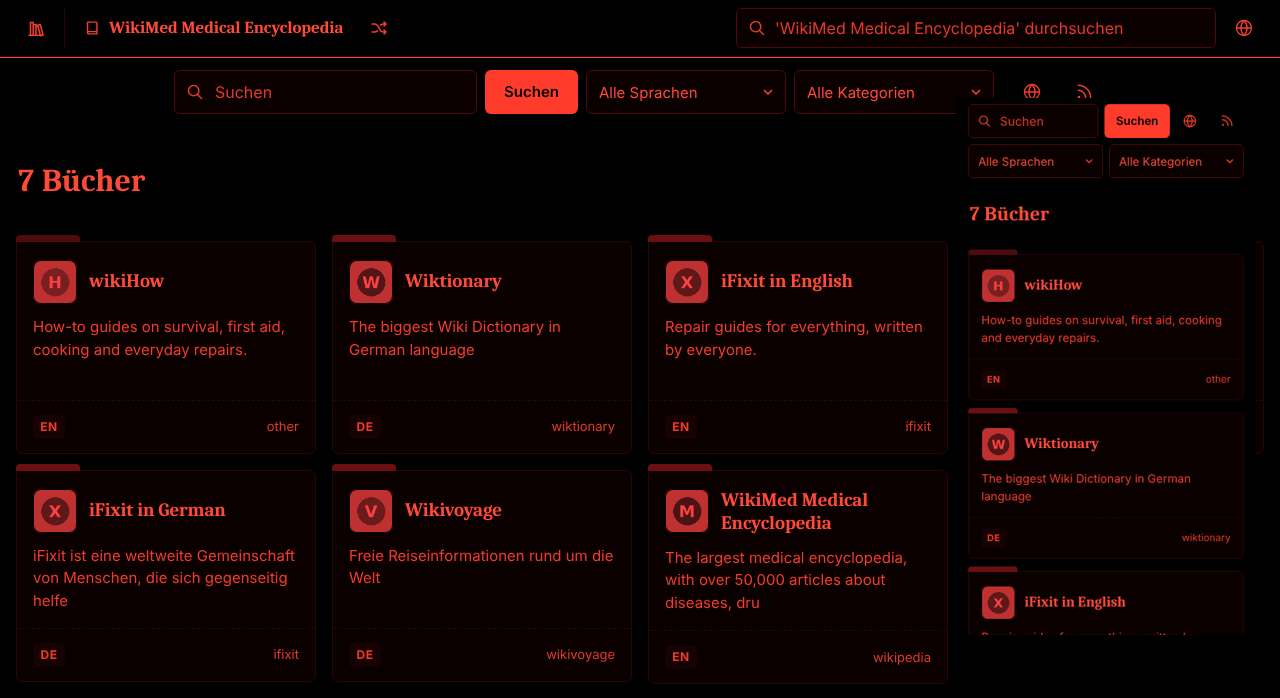
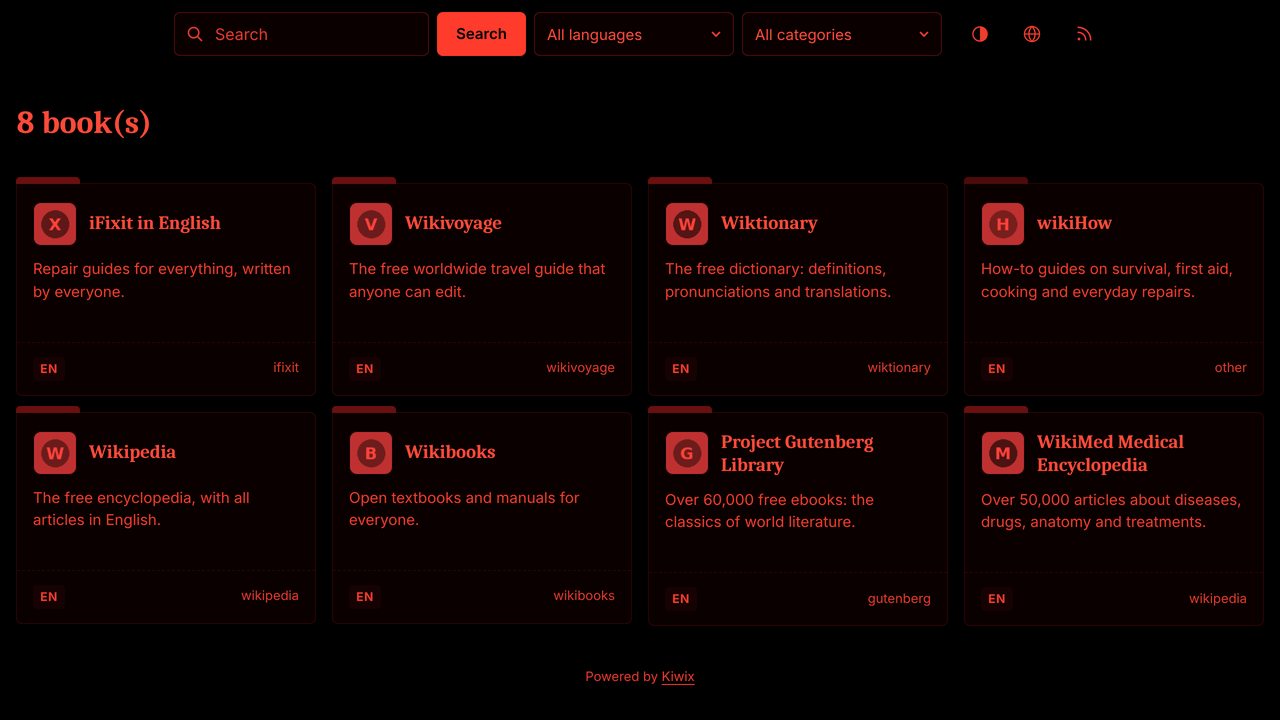
README: rewrite for the current state, new English screenshots
New hero, theme table with previews, reader and phone shots, theme menu.
All screenshots use the English UI and English test books. Clearer setup
for theme.sh (mount ./themes/offline-shelf at /themes, no rebuild needed).

Claude-Session: https://claude.ai/code/session_01Jh5A2SEm2HSFWKFaCFSJJp

diff --git a/README.md b/README.md
@@ -1,74 +1,152 @@
 # offline-shelf
 
-Unofficial offline themes for [kiwix-serve](https://github.com/kiwix/kiwix-tools), the
-web server that serves Wikipedia and other ZIM archives without internet.
+**Ten offline themes for [kiwix-serve](https://github.com/kiwix/kiwix-tools)**, the
+server that serves Wikipedia, Project Gutenberg, iFixit and other ZIM archives on your
+own network with no internet connection.
 
-> This is a community project. It is not affiliated with or endorsed by the
-> Kiwix project.
+Made for home servers, Raspberry Pis and emergency kits: no extra software, no
+downloads at runtime, no JavaScript framework. Just CSS and one small script
+that kiwix-serve already knows how to serve.
 
-## Goals
+> **Unofficial.** This is a community project. It is not affiliated with or
+> endorsed by the Kiwix project.
 
-- **Fully offline.** Once the repository is on your machine, nothing is ever
-  downloaded at runtime. Themes must not reference web fonts, CDNs or any
-  external URL.
-- **No extra software.** No proxy, no fork, no rebuild of Kiwix. Themes use a
-  mechanism kiwix-serve already ships.
-- **Small.** A pack is three CSS files, about 42 KB together, with system
-  fonts only. Runs fine on a Raspberry Pi and on old phones.
+![The library page in Papier (light) and Lampenlicht (dark)](docs/screenshots/hero.png)
 
-## How it works
+## Features
 
-kiwix-serve reads the environment variable `KIWIX_SERVE_CUSTOMIZED_RESOURCES`.
-It points to a text file where each line maps a URL to a local file:
+- **Ten themes, five light and five dark.** Each one restyles the library page
+  and the reader toolbar, and every text colour meets WCAG AA contrast.
+- **Follows the device.** Pick one light and one dark theme; each phone or
+  laptop gets the one that matches its own light or dark setting.
+- **Theme menu in the browser.** Anyone on the network can choose a different
+  theme for their own device. The server setting stays the default.
+- **Built for blackouts.** Works with no internet at all. *Rotlicht* is a
+  red-only night mode that keeps your eyes adapted to the dark.
+- **Small.** About 56 KB per pack (14 KB gzipped), system fonts only (the stock Kiwix CSS
+  alone ships 317 KB of web fonts). Fast on a Raspberry Pi and on old phones.
+- **No patching.** No proxy, no fork, no rebuild of Kiwix. One environment
+  variable switches it on, removing it switches it off.
 
+## Quick start (Docker)
+
+Clone the repository next to your ZIM files:
+
+```sh
+git clone https://github.com/hildlabs/offline-shelf.git
 ```
-/skin/index.css text/css /themes/skin/index.css
-```
 
-kiwix-serve then serves that file instead of its built-in one. Details and
-caveats are in [docs/how-it-works.md](docs/how-it-works.md).
-
-This repository replaces three stylesheets: `kiwix.css` (loaded on every
-page), `index.css` (library page) and `taskbar.css` (the toolbar above an
-opened book), plus `polyfills.js` for the theme menu (see below). The layout lives once in [base/](base/). Each theme is a single
-`themes/<name>/theme.css` holding only colours, fonts and shapes as CSS
-custom properties, plus a few extra rules where a theme needs them.
-
-## Pick your themes
-
-You choose **one theme for light devices and one for dark devices**. Every
-phone or computer then gets the one that matches its own light or dark
-setting, with no switch and no JavaScript. The 25 combinations are prebuilt in
-[dist/](dist/) as `dist/<light>+<dark>/`.
-
-With Docker, mount `dist/` and point the variable at a pack:
+Mount the prebuilt packs and point kiwix-serve at one of them:
 
 ```yaml
-volumes:
-  - ./offline-shelf/dist:/themes:ro
-environment:
-  KIWIX_SERVE_CUSTOMIZED_RESOURCES: /themes/papier+lampenlicht/resources.txt
+services:
+  kiwix:
+    image: ghcr.io/kiwix/kiwix-serve:latest
+    command: "*.zim"
+    ports:
+      - "8090:8080"
+    volumes:
+      - ./zim:/data:ro
+      - ./offline-shelf/dist:/themes:ro
+    environment:
+      # /themes/<light theme>+<dark theme>/resources.txt
+      KIWIX_SERVE_CUSTOMIZED_RESOURCES: /themes/papier+lampenlicht/resources.txt
 ```
 
-Change the pack name, then `docker compose up -d kiwix` (kiwix-serve reads the
-file at startup). A complete file is in
-[examples/docker-compose.yml](examples/docker-compose.yml). Without Docker, run
-`tools/kiwix-theme build-all /path/to/offline-shelf/dist` first, so the paths
-in `resources.txt` exist on your machine.
+Then `docker compose up -d`, open `http://<server>:8090` and reload once with
+<kbd>Ctrl</kbd>+<kbd>F5</kbd>. A commented copy is in
+[examples/docker-compose.yml](examples/docker-compose.yml).
 
-To return to the stock look, remove the variable and restart kiwix-serve.
+All 25 light + dark combinations are prebuilt in [dist/](dist/). To go back
+to the stock look, remove the variable and recreate the container.
 
-### Switch with one command
+<details>
+<summary>Without Docker</summary>
 
-[examples/theme.sh](examples/theme.sh) keeps the choice in a `.env` file
-next to `docker-compose.yml`. Copy `dist/` to `./themes/offline-shelf/`, use
-this line in the compose file
+kiwix-serve reads the same variable on any platform. The paths inside each
+`resources.txt` must exist on your machine, so build the packs for the folder
+you serve them from first:
+
+```sh
+tools/kiwix-theme build-all /srv/offline-shelf/dist
+KIWIX_SERVE_CUSTOMIZED_RESOURCES=/srv/offline-shelf/dist/papier+lampenlicht/resources.txt \
+  kiwix-serve --port 8090 /srv/zim/*.zim
+```
+
+</details>
+
+## The themes
+
+Theme names are German, the language of the project's first home. The
+English meaning is in brackets.
+
+### Light
+
+| | Theme | Look |
+|-|-------|------|
+| <img src="themes/papier/preview.png" width="280" alt="Papier"> | **[Papier](themes/papier/)** (paper) | Warm paper, near-black ink, serif titles, a coloured index tab per collection |
+| <img src="themes/atlas/preview.png" width="280" alt="Atlas"> | **[Atlas](themes/atlas/)** | Cool map paper with a faint grid, petrol accent, spaced capitals, monospace details |
+| <img src="themes/zeitung/preview.png" width="280" alt="Zeitung"> | **[Zeitung](themes/zeitung/)** (newspaper) | Black on white, square corners, heavy serif headlines, red accent, greyscale logos |
+| <img src="themes/werkstatt/preview.png" width="280" alt="Werkstatt"> | **[Werkstatt](themes/werkstatt/)** (workshop) | Workshop grey, heavy 2 px outlines, blueprint blue, monospace labels |
+| <img src="themes/salbei/preview.png" width="280" alt="Salbei"> | **[Salbei](themes/salbei/)** (sage) | Sage green, round shapes and logos, rounded type |
+
+### Dark
+
+| | Theme | Look |
+|-|-------|------|
+| <img src="themes/lampenlicht/preview.png" width="280" alt="Lampenlicht"> | **[Lampenlicht](themes/lampenlicht/)** (lamplight) | Warm black, cream text, amber accent, coloured index tabs |
+| <img src="themes/bunker/preview.png" width="280" alt="Bunker"> | **[Bunker](themes/bunker/)** | Phosphor terminal: black and green, monospace everywhere, a blinking cursor |
+| <img src="themes/mitternacht/preview.png" width="280" alt="Mitternacht"> | **[Mitternacht](themes/mitternacht/)** (midnight) | Night blue, ivory text, gold accent, italic serif titles |
+| <img src="themes/signal/preview.png" width="280" alt="Signal"> | **[Signal](themes/signal/)** | Charcoal with safety orange, bold capitals, hazard-striped tabs |
+| <img src="themes/rotlicht/preview.png" width="280" alt="Rotlicht"> | **[Rotlicht](themes/rotlicht/)** (red light) | Night vision: black and dim red only, the article is tinted red too |
+
+### Reading and phones
+
+The reader toolbar follows the theme too: book title, search, random article,
+back to the library.
+
+![The reader toolbar in Papier, Bunker and Rotlicht](docs/screenshots/reader.png)
+
+Everything works on small screens, with touch-sized buttons and a toolbar
+that gets out of the way while you read.
+
+![Library and reader on phones in Papier, Lampenlicht, Bunker, Salbei and Rotlicht](docs/screenshots/phones.png)
+
+**About the article itself.** The page below the toolbar is the book's own
+HTML from the ZIM file. It keeps its own styles and, for most Wikimedia books,
+its own dark mode. Themes leave it alone, with one exception: Rotlicht tints
+the whole article red with a CSS filter. Books with a dark mode come out dark
+red, as above. Books without one come out as a bright red page.
+
+## Choosing a theme
+
+### In the browser, per device
+
+Every pack adds a theme button (the half-filled circle) next to the language
+button, in the library and in the reader. It opens one short list:
+*Automatic* (the server's pack) and the ten themes. The choice is saved in that
+browser only, so a phone can stay on Rotlicht while the tablet keeps Papier.
+
+![The theme menu](docs/screenshots/theme-menu.png)
+
+The menu needs no cookie, no account and no extra service. A reload paints
+the chosen theme from the very first frame.
+
+### On the server, for everyone
+
+The pack in `KIWIX_SERVE_CUSTOMIZED_RESOURCES` is the default for every
+device that has not picked a theme. [examples/theme.sh](examples/theme.sh)
+switches it with one command. Copy `dist/` to `./themes/offline-shelf/` next to
+your compose file, and use these two lines in it:
 
 ```yaml
-KIWIX_SERVE_CUSTOMIZED_RESOURCES: /themes/offline-shelf/${KIWIX_THEME:-papier+lampenlicht}/resources.txt
+    volumes:
+      - ./themes/offline-shelf:/themes:ro
+    environment:
+      KIWIX_SERVE_CUSTOMIZED_RESOURCES: /themes/${KIWIX_THEME:-papier+lampenlicht}/resources.txt
 ```
 
-and switch on the server:
+Then, on the server:
 
 ```sh
 ./theme.sh                    # show the active pack and all themes
@@ -76,90 +154,65 @@ and switch on the server:
 ./theme.sh off                # stock Kiwix look
 ```
 
-### Theme menu in the browser
+The script writes `KIWIX_THEME` to `.env` and recreates the kiwix container,
+because kiwix-serve reads the variable only at startup.
 
-Every pack also adds a small theme button to the library bar and the reader
-toolbar (half-filled circle, next to the language button). It opens one flat
-list: "Automatic" (the server's pack, light or dark per device) and the ten
-themes. The choice is stored per device in the browser, so a phone can use
-Rotlicht while the tablet keeps Papier. The server setting stays the default
-for every device that has not picked anything.
+## How it works
 
-How it gets onto the page without patching kiwix-serve: both pages load the
-stock `skin/polyfills.js` early in `<head>`. The pack replaces it with the
-stock content (copied unchanged to [base/upstream/](base/upstream/)) plus
-[base/switcher.js](base/switcher.js), about 8 KB together. Each theme is also
-built on its own as `dist/skin/os-theme/<name>.css` (2 to 3 KB), loaded only
-when chosen and cached in the browser, so a reload shows the right theme from
-the first frame. No library, no cookie, no extra service.
+kiwix-serve has an undocumented environment variable,
+`KIWIX_SERVE_CUSTOMIZED_RESOURCES`. It points to a text file in which each
+line maps a URL to a local file:
 
-If a later Kiwix release changes `polyfills.js`, copy the new file to
-`base/upstream/` and rebuild. `tools/kiwix-theme check-server` reports the
-difference.
-
-## Themes
-
-### Light
-
-| Theme | Look |
-| ----- | ---- |
-| [Papier](themes/papier/) | Warm paper, near-black ink, serif titles, coloured index tabs per collection |
-| [Atlas](themes/atlas/) | Cool map paper with a faint graticule, petrol accent, spaced capital titles, monospace details |
-| [Zeitung](themes/zeitung/) | Newsprint: black on white, square, heavy serif headlines, red accent, greyscale logos |
-| [Werkstatt](themes/werkstatt/) | Workshop grey, heavy 2px outlines, blueprint blue, monospace labels |
-| [Salbei](themes/salbei/) | Sage green, round shapes and logos, rounded type |
-
-### Dark
-
-| Theme | Look |
-| ----- | ---- |
-| [Lampenlicht](themes/lampenlicht/) | Warm black, cream text, amber accent, coloured index tabs |
-| [Bunker](themes/bunker/) | Phosphor terminal: black-green, monospace everywhere, dashed outlines, blinking cursor |
-| [Mitternacht](themes/mitternacht/) | Night blue, ivory text, gold accent, italic serif titles |
-| [Signal](themes/signal/) | Charcoal with safety orange, bold capitals, hazard-striped tabs |
-| [Rotlicht](themes/rotlicht/) | Night vision for blackouts: black and dim red only, the article is tinted red too |
-
-Every theme covers the library page and the reader toolbar, and the text in
-each meets WCAG AA contrast (4.5:1 or more). Each folder has a `preview.png`.
-
-![Papier](themes/papier/preview.png)
-![Bunker](themes/bunker/preview.png)
-
-**About the article itself.** The page below the toolbar is the book's own
-HTML from the ZIM file, with its own styles and, for most Wikimedia books,
-its own dark mode that follows the device. Themes do not restyle it. The one
-exception is Rotlicht, which tints the whole article red with a CSS filter so
-your eyes keep their dark adaptation. On books without a dark mode this gives
-a red page rather than a dark one.
-
-## Make a theme
-
-Copy a folder in `themes/`, change the values in its `theme.css` (every colour
-token listed in `tools/kiwix-theme` must be defined), then:
-
-```sh
-tools/kiwix-theme check                    # all colour tokens present?
-tools/kiwix-theme build mytheme lampenlicht
-tools/kiwix-theme check-server http://localhost:8080 mytheme+lampenlicht
+```
+/skin/index.css text/css /themes/skin/index.css
 ```
 
-The first line of `theme.css` carries the name, the scheme (`light` or
-`dark`) and a one-line description. Rules after the `:root` block are extras
-and only apply while that theme is active. The helper is a plain POSIX shell
-script; it is only needed to build packs, not to run them.
+kiwix-serve then serves that file instead of its built-in one. A pack
+replaces:
+
+| URL | Used by | Contents |
+|-----|---------|----------|
+| `/skin/kiwix.css` | every page | the light and dark theme tokens, base styles |
+| `/skin/index.css` | library page | layout of the library |
+| `/skin/taskbar.css` | reader | the toolbar above an open book |
+| `/skin/polyfills.js` | library and reader | stock file, unchanged, plus the theme menu |
+| `/skin/os-theme/<name>.css` | theme menu | each theme on its own, loaded only when chosen |
+
+The layout is written once in [base/](base/). A theme is a single
+`themes/<name>/theme.css` that only sets colours, fonts and shapes as CSS
+custom properties, plus a few extra rules where it needs them. Details,
+measurements and limits are in [docs/how-it-works.md](docs/how-it-works.md).
+
+## Make your own theme
+
+Copy a folder in `themes/`, change the values in its `theme.css`, then:
+
+```sh
+tools/kiwix-theme check                      # every colour token defined?
+tools/kiwix-theme build mytheme lampenlicht  # writes dist/mytheme+lampenlicht/
+tools/kiwix-theme check-server http://localhost:8090 mytheme+lampenlicht
+```
+
+The first line of `theme.css` holds the name, the scheme (`light` or `dark`)
+and a one-line description. Rules after the `:root` block start with `html `
+and only apply while that theme is active. `tools/kiwix-theme` is a plain
+POSIX shell script; it is only needed to build packs, not to run them.
 
 ## Compatibility
 
-| kiwix-serve | libkiwix | Mechanism works |
-| ----------- | -------- | --------------- |
-| 3.5.0       | 12.1.1   | yes (tested)    |
-| 3.8.2 (Docker image) | 14.x | yes, all themes tested against libkiwix 14.2.1 pages |
-| latest      | 15.x     | present in source, not yet tested end to end |
+| kiwix-serve | libkiwix | Status |
+|-------------|----------|--------|
+| 3.8.2 (Docker image) | 14.x | tested: all themes and the menu, in daily use on a Raspberry Pi 4 |
+| 3.5.0 | 12.1.1 | the mechanism works; the themes target the 14.x page markup |
+| latest | 15.x | not tested yet |
 
-Stock CSS changes between Kiwix releases. The themes were built against the
-libkiwix 14.x page markup.
+Kiwix may change its page markup or `polyfills.js` in a later release. If the
+menu stops appearing, copy the new stock `polyfills.js` to
+[base/upstream/](base/upstream/) and rebuild. `tools/kiwix-theme check-server`
+shows which files no longer match.
 
 ## License
 
-GPL-3.0-or-later, the same license as Kiwix. Themes are usually derived from
-Kiwix's own CSS, so they inherit its license.
+[GPL-3.0-or-later](LICENSE), the same license as Kiwix. The themes are
+derived from Kiwix's own CSS and markup, and `base/upstream/polyfills.js` is
+an unchanged copy from libkiwix.
